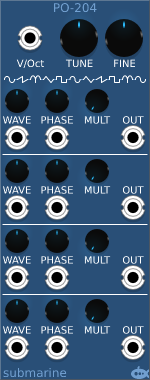
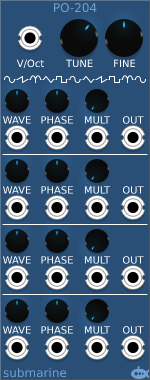
Added CV to MULT control on PO-204

diff --git a/src/PO12.cpp b/src/PO12.cpp
@@ -478,7 +478,7 @@ struct PO204 : ModuleWidget {
 		for (int i = 0; i < 4; i++) {
 			addParam(ParamWidget::create<SmallKnob<LightKnob>>(Vec(5, 89 + 70 * i), module, PO_204::PARAM_WAVE_1 + i, 0.0f, 10.0f, 5.0f));
 			addParam(ParamWidget::create<SmallKnob<LightKnob>>(Vec(45, 89 + 70 * i), module, PO_204::PARAM_PHASE_1 + i, -1.0f, +1.0f, 0.0f));
-			addParam(ParamWidget::create<SmallKnob<LightKnob>>(Vec(85, 89 + 70 * i), module, PO_204::PARAM_MULT_1 + i, 1.0f, 16.0f, 1.0f));
+			addParam(ParamWidget::create<SnapKnob<SmallKnob<LightKnob>>>(Vec(85, 89 + 70 * i), module, PO_204::PARAM_MULT_1 + i, 1.0f, 16.0f, 1.0f));
 			addInput(Port::create<sub_port>(Vec(4.5, 125 + 70 * i), Port::INPUT, module, PO_204::INPUT_WAVE_1 + i));
 			addInput(Port::create<sub_port>(Vec(44.5, 125 + 70 * i), Port::INPUT, module, PO_204::INPUT_PHASE_1 + i));
 			addInput(Port::create<sub_port>(Vec(84.5, 125 + 70 * i), Port::INPUT, module, PO_204::INPUT_MULT_1 + i));

diff --git a/manual/PO.md b/manual/PO.md
@@ -28,4 +28,4 @@ The waveform of the output can be adjusted using the WAVE control knob and assoc
 
 ## Frequency multiplier
 
-The output frequency can be multiplied by an integer value from 1 to 16 using the MULT control knob.
+The output frequency can be multiplied by an integer value from 1 to 16 using the MULT control knob and associated CV.
